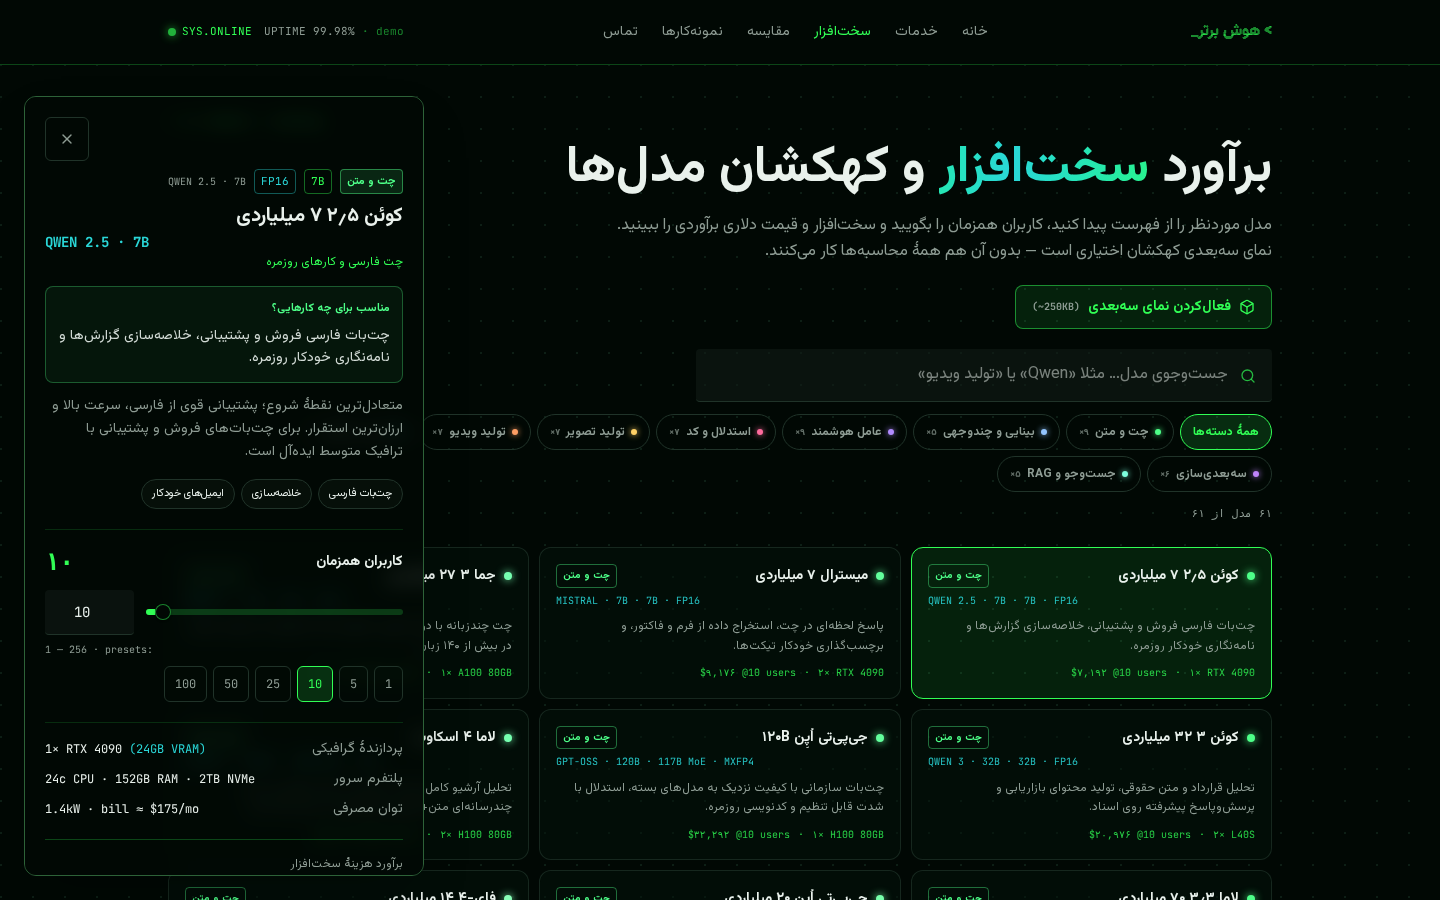
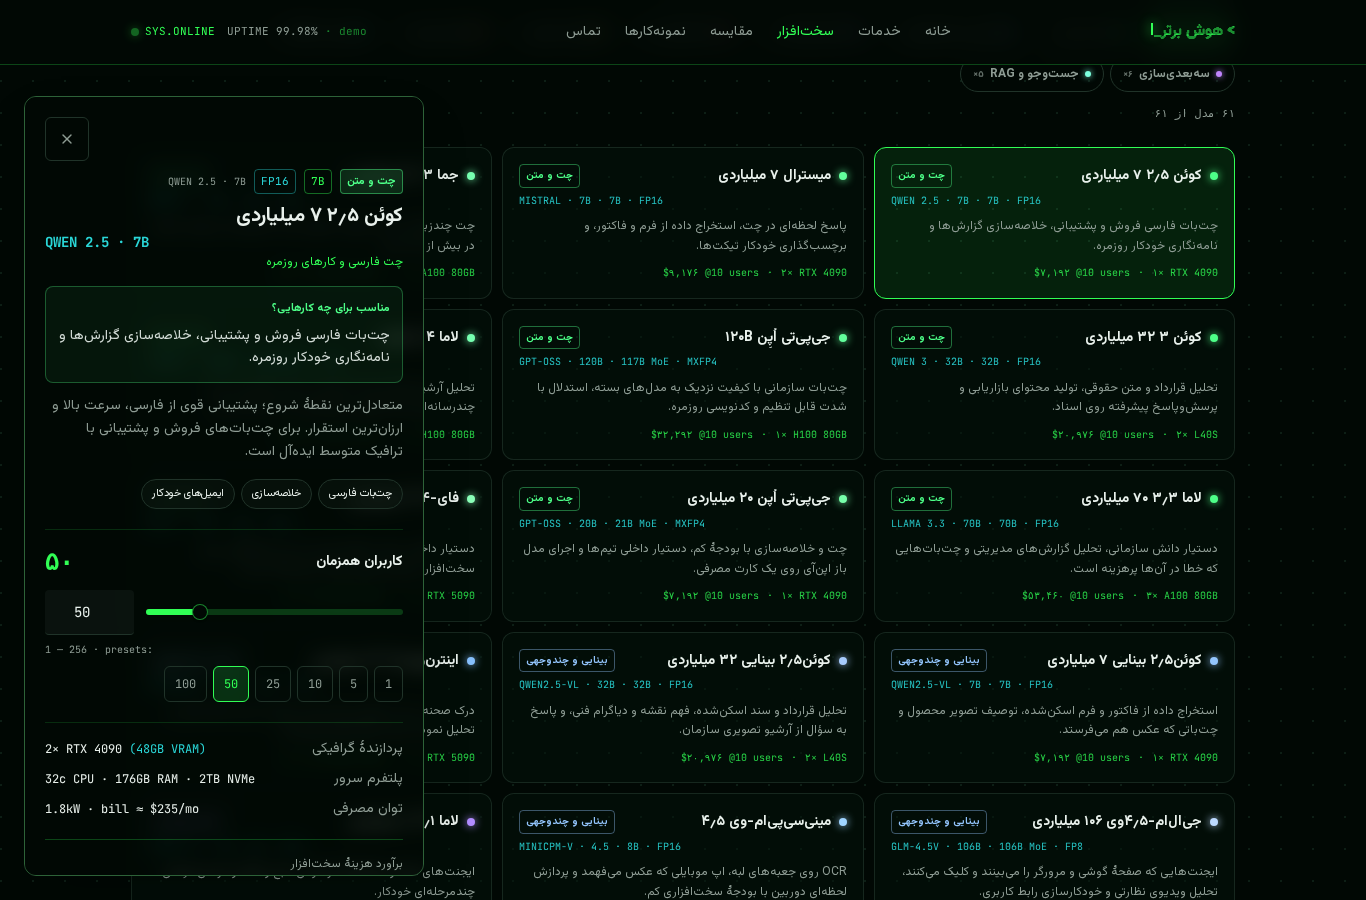
Round-2 report: docs/performance-seo-results.md — measured before/after (LH 36+36 runs, gzip-faithful host emulation), honest target status, limits

diff --git a/docs/performance-seo-results.md b/docs/performance-seo-results.md
@@ -1,0 +1,113 @@
+# نتایج بهینهسازی عملکرد و سئو — راند ۲ (T0–T9)
+
+تاریخ اجرا: ۲۰۲۶/۱۰/۲۵ · شاخه: `optimization/perf-seo-round2` · مبنا: `7af22e9` (main) → HEAD: `30a8548`
+
+> صادقانه: همهٔ اعداد این سند **آزمایشگاهی** و از خروجی واقعی همین مخزن هستند.
+> **هیچ دادهٔ میدانی (RUM/CrUX) وجود ندارد** — LCP/INP/CLS صدک ۷۵ کاربران واقعی قابل ادعا نیست.
+> سند قبلی `ui-performance-audit.md` برای تاریخچه حفظ شده؛ اعداد آن بازاندازهگیری شدهاند.
+
+## ۱) روششناسی اندازهگیری (ثابت برای قبل و بعد)
+
+| پارامتر | مقدار |
+|---|---|
+| سروکنندهٔ آزمایش | `scripts/static-server.mjs` — شبیهساز GitHub Pages: clean URL، 301 برای اسلش پایانی، **404 واقعی**، **gzip** (میزبان واقعی فشردهسازی میکند؛ اندازهگیری بدون gzip ارقام LCP را تا ×۲ influate میکرد) |
+| مرورگر | Chrome for Testing 143 (Playwright 1.57) — headless، `--no-sandbox` |
+| Lighthouse | 12.8.2 — موبایل: CPU×4 + Slow 4G · دسکتاپ: CPU×1 · هر نقطه **۳ اجرا، میانه** (JSON کامل: خروجی ابزار، نه دستساز) |
+| محیط | VM ابری اشتراکی؛ wall-clock دسکتاپ نوسان دارد (پایینتر مستند شده) |
+| Bun | 1.3.14 (در CI هم pin شد) |
+| شرایط cache | سرد در همهٔ اجراها (پروفایل تازه) |
+
+**محدودیت sandbox:** FCP/LCP مطلق دسکتاپ در این VM بالاتر از سختافزار واقعی است — مدرک: در trace خانهٔ دسکتاپ، منابع تا ~۲۰۰ms کامل رسیدهاند، کار main-thread فقط ~۵۶۰ms و TBT≈0، ولی FCP≈۲٫۸s ثبت شده (انتظار CPU کمسهمِ VM). مقایسهٔ قبل/بعد (روش یکسان) معتبر است؛ **اعداد مطلق را به سختافزار واقعی تعمیم ندهید.**
+
+## ۲) وضعیت دستورها (بعد — HEAD شاخه)
+
+| دستور | نتیجه |
+|---|---|
+| `bun run lint` | exit 0 — 0 error، 8 warning (همان react-refresh قبلی) |
+| `bun run typecheck` | exit 0 |
+| `bun run test` | **13 فایل، 53 تست پاس** (مبنا 41 → +12: sheet/resize، intro opt-in، fail-open reveal، سازگاری sitemap) |
+| `bun run build` (SSR/Lovable) | موفق — مسیر نامعتبر: **HTTP 404** (با nitro preset=node در محیط اجرا راستیآزمایی شد؛ پیکربندی پروژه تغییری نکرده) |
+| `PAGES_BASE_PATH=/open-model-workshop/ bun run build` | موفق — ۶ صفحه + `/404` (13 prerender) |
+| `node scripts/check-output.mjs .output/public` | پاس — ۶ مسیر، 404 noindex بدون canonical، sitemap/robots/og، canonical واحد، بودجهٔ gzip |
+
+## ۳) Lighthouse — قبل → بعد (میانهٔ ۳ اجرا)
+
+### موبایل (CPU×4 + Slow 4G، gzip)
+
+| مسیر | Perf قبل | Perf بعد | LCP قبل | LCP بعد | CLS قبل | CLS بعد | TBT قبل | TBT بعد |
+|---|---|---|---|---|---|---|---|---|
+| خانه | 0.74 | **0.84** | 3.40s | 3.61s | 0.2077 | **0.0000** | 0ms | 16ms |
+| خدمات | 0.87 | 0.87 | 3.14s | 3.33s | 0.0117 | **0.0000** | 0ms | 37ms |
+| سختافزار | 0.78 | **0.86** | 3.34s | 3.43s | 0.1636 | **0.0000** | 11ms | 71ms |
+| مقایسه | 0.88 | 0.89 | 3.07s | 3.21s | 0.0134 | **0.0000** | 5ms | 58ms |
+| نمونهکارها | 0.75 | **0.86** | 3.33s | 3.51s | 0.2086 | **0.0000** | 0ms | 37ms |
+| تماس | 0.85 | 0.85 | 3.32s | 3.31s | 0.0089 | **0.0000** | 18ms | 63ms |
+
+### دسکتاپ (CPU×1، gzip)
+
+| مسیر | Perf قبل | Perf بعد | LCP قبل | LCP بعد | CLS قبل | CLS بعد |
+|---|---|---|---|---|---|---|
+| خانه | 0.53 | **0.66** | 3.33s | 3.34s | 0.2289 | **0.0000** |
+| خدمات | 0.66 | 0.67 | 3.06s | 3.19s | 0.0289 | **0.0000** |
+| سختافزار | 0.59 | **0.66** | 3.31s | 3.35s | 0.1425 | **0.0000** |
+| مقایسه | 0.66 | 0.68 | 3.06s | 3.18s | 0.0079 | **0.0000** |
+| نمونهکارها | 0.64 | 0.65 | 3.31s | 3.37s | 0.0148 | **0.0000** |
+| تماس | 0.64 | 0.64 | 3.32s | 3.51s | 0.0089 | **0.0000** |
+
+SEO = 1.0 و Accessibility = 0.98–1 و Best-Practices = 0.96–1 در همهٔ نقاط قبل و بعد (ثابت).
+
+**خواندن اعداد:** بهبود اصلی CLS است (۰٫۰۸–۰٫۲۳ → ~۰) — عامل غالب با audit `layout-shifts` علتیابی شد: «Web font loaded» (بازچینش FOUT) و در سختافزار، درج صحنه پس از idle. LCP مطلق (~۳٫۲–۳٫۶ ثانیه) به هدف ≤۲٫۵s نرسیده — محدودیتها در بخش ۷.
+
+## ۴) جدول تغییرات (قالب درخواستی)
+
+| تغییر | فایل | شاهد قبل | نتیجهٔ بعد | آزمون و خروجی واقعی | وضعیت/مانع |
+|---|---|---|---|---|---|
+| **T1** Sheet موبایل روی دسکتاپ | `routes/hardware.tsx`, `lib/device.ts` | `Sheet open` بدون شرط viewport؛ فقط `md:hidden` CSS؛ overlay+scroll-lock نامرئی روی دسکتاپ؛ پنل دسکتاپ فقط داخل show3d | Sheet فقط وقتی viewport واقعاً موبایل (`useCompactViewport` واکنشگر) نصب میشود؛ پنل ثابت دسکتاپ در نمای فهرست هم هست؛ در resize ۳۹۰↔۱۳۶۶ انتخاب و کاربران حفظ و قفلها آزاد میشوند | ۳ تست jsdom (شامل resize زنده) + **۱۵/۱۵ بررسی Playwright** (بدون dialog/بدون قفل/محاسبه کار میکند/Escape و بازگشت فوکوس) | انجام شد |
+| **T2** اینترو از مسیر عادی خارج شد | `Shell.tsx`, `Intro.tsx`, `__root.tsx`, `styles.css` | `<Intro/>` بدون شرط در Shell؛ ~۲۲۴۰ عنصر تزئینی در SSR/hydration؛ تایمرهای ۳۰۵۰/۳۹۰۰ms؛ اسکریپت sessionStorage | اینترو **lazy و فقط با دکمهٔ footer** («پخش اینتروی برند»)؛ از HTML اولیهٔ همهٔ صفحات حذف؛ اسکریپت/CSS/sessionStorage مرده پاک شد؛ برند اینترو از h1 به عنصر تزئینی | HTML خام خانه **۲۹۳→۶۵KB**؛ تست jsdom (نمیدَر اولیه + نصب با کلیک + unmount با رد کردن)؛ reduced-motion = فریم ثابت | انجام شد — تغییر عمدی سیاست: لحظهٔ برند دیگر خودکار پخش نمیشود |
+| **T3** چیدمان پایدار سختافزار | `routes/hardware.tsx` | `desktopIdle` یک section تمامصفحه بعد از idle بالای فهرست درج میکرد؛ H1 بین دو حالت جابهجا میشد | فهرست+محاسبه پیشفرض ثابت هر دو دستگاه؛ سهبعدی فقط با دکمه (`mode==="3d"`)؛ H1/متن معرفی همیشه رندر؛ عنوان صحنه تزئینی؛ دکمهٔ «فهرست» داخل صحنه؛ سوییچ به بالای صفحه (کنترلشده) | CLS سختافزار دسکتاپ **0.1425→0.0000**؛ در بار سرد هیچ درج خودکاری رخ نمیدهد (trace + مرورگر) | انجام شد — تغییر عمدی سیاست نسبت به auto-desktop سابق (بند ۱ سند دستور) |
+| **T4** سیاست مشترک دستگاه + چرخهٔ رندر | `lib/device.ts`, `Datacenter.tsx`, `DatacenterScene.tsx`, `MatrixBackdrop.tsx` | `const COMPACT = isCompactDevice()` سطح ماژول (یکبار، بیواکنش)؛ DatacenterScene بدون کنترل تب؛ MatrixBackdrop در حالت ثابت با resize خالی میماند؛ rAF در تب پنهان میچرخید | `useDevicePolicy()` واکنشگر {compact, reducedMotion, saveData, lite, **ready**} — resize/reduced-motion/saveData/?tier زنده اعمال میشوند؛ صحنه فقط با `ready && !lite && idleReady` دانلود میشود؛ MatrixBackdrop: فریم ثابت + **بازرسم در resize**، توقف rAF در تب پنهان، ادامهٔ بدون-پرش؛ DatacenterScene: `frameloop="never"` در تب پنهان | مرورگر با Save-Data دسکتاپ: **۰ chunk سهبعدی در پنجرهٔ ۱۰ ثانیه** (پس از رفع race؛ قبلاً ۲ chunk میرفت) + backdrop 2D فعال؛ صفر chunk سهبعدی در موبایل (قبل و بعد)؛ ۵۳ تست jsdom | ریسکهای باقی: توقف بر «پوشیدهشدن» بخشیِ صحنهٔ fixed (همیشه intersect است) فقط سطح تب انجام شد — محدودیت مستند |
+| **T5** Reveal fail-open | `Reveal.tsx`, `styles.css`, `__root.tsx` | `html.js .reveal{opacity:0}` — اسکریپت inline `js` را میگذاشت؛ اگر entry chunk میشکست محتوا مخفی میماند | حالت پنهان مالکیت خود کامپوننت است (`reveal-arm` در layout effect قبل از paint + observer)؛ شکست chunk/نبود IO/خطای observer → نمایان | ۳ تست (arm قبل از paint، نبود IO → `in`، پرتاب خطا → `in`) + مرورگر با **مسدودسازی همهٔ JS**: صفر بلوک نامرئی؛ بدون JS همهٔ ۶ مسیر خوانا | انجام شد |
+| **T6** SEO مرکزی | `lib/site.ts`, `lib/seo.ts`, ۶ مسیر, `__root.tsx` | canonical هاردکد در ۵ فایل؛ بدون og:url/og:image؛ JSON-LD جدا | `SITE_URL` تکمنبع (override با `VITE_SITE_URL`)؛ title/description یکتا، canonical مطلق واحد، og:url + og:image واقعی (`public/og-cover.png` ۱۲۰۰×۶۳۰ با فونت خود سایت)؛ JSON-LD از همان تنظیم | `check-output` در CI: canonical واحد هر صفحه؛ تست سازگاری sitemap↔site (۴ مورد)؛ هر دو build با base `/` و `/open-model-workshop/` | انجام شد — دامنهٔ GitHub Pages فعلی حفظ شد (دامنهٔ ساختگی ساخته نشد) |
+| **T7** 404 واقعی | `routes/404.tsx`, `NotFoundContent.tsx`, `vite.config.ts`, workflow | `cp index.html 404.html` — کپی خانه بهعنوان 404 | مسیر `/404` واقعاً prerender میشود (noindex، بدون canonical، فارسی)؛ workflow از خروجی واقعی کپی میکند و نبودش را fail میکند | میزبان شبیهساز: unknown → **HTTP 404** با بدنهٔ 404 فارسی؛ SSR (preset=node برای تست): unknown → **HTTP 404**؛ اسکرینشات `404-desktop.png` | محدودیت میزبانی: robots زیر `/open-model-workshop/` کل host را کنترل نمیکند — در فایل و این سند مستند شد؛ بدون مجوز DNS/ریپوی دیگری دست نزده شد |
+| **T8** DOM/دارایی | `routes/hardware.tsx`, `styles.css`, `__root.tsx` | جدول+کارت هر دو رندر با `sizeFor()` ×۳۶۶+ در هر رندر؛ `sizeFor(m,10)` دوبار در هر کارت؛ `--cv-size:7000px` حدسی | دادهٔ مرجع **یکبار** در سطح ماژول؛ جدول/کارت = عناصر استاتیک ماژول (reconciliation رد میشود)؛ haystack جستوجوی نرمالشده؛ `--cv-size` **اندازهگیریشدهٔ ریسپانسیو** (موبایل ۱۳٫۶k، md+ 5.3k)؛ preload سه فونت بحرانی | DOM دسکتاپ تقریباً ثابت (۳۴۴۴→۳۴۵۴ — markup حفظ شد، فقط شمارندهها/دکمهها اضافه شد)؛ تایپ/اسلایدر دیگر جدول را بازمحاسبه نمیکند؛ CLS فونتی 0.14–0.23 → **≤0.0013** | virtualization اعمال نشد (۶۱ ردیف دلیل کتابخانه نیست)؛ جدول semantics و SSR حفظ شد |
+| **T9** تست/CI | workflow, `scripts/check-output.mjs`, تستها | workflow فقط build داشت؛ bun unpinned | lint+typecheck+test قبل از build؛ bun=1.3.14؛ چک ساختاری خروجی + بودجهٔ gzip (مبنا ×۱٫۱۵) | `check-output` محلی پاس؛ ۵۳ تست؛ ماتریس مرورگر T9 (۳۰ بررسی) همه پاس: no-JS، JS-شکسته، reduced-motion، RTL بدون overflow سراسری در ۳۲۰/۳۹۰/۷۶۸/۱۴۴۰، Save-Data، opt-in سهبعدی، بازگشت از صحنه | تست دستگاه فیزیکی/INP میدانی ممکن نشد — مستند |
+
+## ۵) HTML خام و شبکه (evidence جمعشده، نه حدس)
+
+| مسیر | HTML خام قبل | بعد | Δ |
+|---|---|---|---|
+| خانه | ۲۹۳KB | **۶۵KB** | −۷۸٪ |
+| خدمات | ۲۸۵KB | **۵۶KB** | −۸۰٪ |
+| سختافزار | ۵۱۹KB | **۲۹۱KB** | −۴۴٪ |
+| مقایسه | ۲۵۸KB | **۳۰KB** | −۸۸٪ |
+| نمونهکارها | ۳۴۷KB | **۱۱۹KB** | −۶۶٪ |
+| تماس | ۲۵۴KB | **۲۶KB** | −۹۰٪ |
+
+- `#boot-overlay` در HTML خام همهٔ مسیرها: ۲ → **۰**.
+- درخواستهای سهبعدی موبایل (پنجرهٔ ۱۰ ثانیه پس از load، هر ۶ مسیر): قبل ۰ → بعد **۰** (سیاست حفظ شده).
+- Save-Data دسکتاپ (home، پنجرهٔ ۱۰ ثانیه): بعد **۰ chunk سهبعدی** (۲D backdrop).
+- opt-in سهبعدی سختافزار: کلیک → همان لحظه fetch ۲ chunk + mount canvas؛ «فهرست» → بازگشت بدون قفل.
+- هشدار hydration جدید: **صفر** (کنسول همهٔ ۶ مسیر، قبل و بعد).
+- LCP element: متن (H1 هیرو) — preload فونت دقیقاً برای همین مسیر.
+
+## ۶) اهداف عددی — وضعیت صادقانه
+
+| هدف (سند دستور) | وضعیت | توضیح |
+|---|---|---|
+| CLS ≤ 0.1 (آزمایشگاهی) | ✅ **≤ 0.0013 همهجا** | از 0.008–0.229 |
+| INP ≤ 200ms میدانی | ⛔ دادهٔ میدانی وجود ندارد | تعاملها آزمایشگاهی رواناند؛ ادعای میدانی نمیشود |
+| LCP ≤ 2.5s | ⚠ آزمایشگاهی ۳٫۲–۳٫۶s | مانع: sandbox (منابع ≤۲۰۰ms، main-thread ≤۶۰۰ms، TBT≈۰ — تأخیر wall-clock VM است)؛ روی سختافزار واقعی بازاندازهگیری شود. اهرم باقیمانده: سبکترشدن entry (~47KB gzip) |
+| LH Perf ≥90 موبایل / ≥95 دسکتاپ | ⚠ 0.84–0.89 / 0.64–0.68 | همان مانع sandbox؛ در مقایسهٔ قبل/بعد بهبود واقعی (تا +0.13) |
+| SEO ≥95 | ✅ 1.0 | |
+| مجموع JS+CSS نمای سبک ≤ baseline | ✅ ثابت (entry 45.8KB gzip + css 14.8KB — budget CI: ≤52.7/≤23) | فونتها/تصاویر جدا: preload سه فونت ۳۲+۳۲+۲۹KB (همان فایلهای قبلی، زودتر) |
+| صفر chunk سهبعدی قبل از opt-in | ✅ موبایل + Save-Data | پنجرهٔ ۱۰ ثانیه |
+| بدون overlay اجباری / modal نامرئی / hydration warning جدید | ✅ | ماتریس مرورگر |
+
+## ۷) محدودیتها و کارهای باقیمانده
+
+1. **دستگاه فیزیکی/لمس واقعی، iOS/Android، reduced-motion واقعی، Save-Data واقعی مرورگر** — در این محیط ممکن نشد؛ شبیهسازی Chrome معیار جایگزین بود.
+2. **INP میدانی** — بدون RUM قابل گزارش نیست؛ برای جمعآوری، یک ابزار RUM (مثلاً web-vitals به یک endpoint) نقطهٔ بعدی است.
+3. **LCP دسکتاپ و chunk سهبعدی home** — راهروی دیتاسنتر روی دسکتاپ پس از idle دانلود میشود (هویت بصری سایت؛ طبق سند حفظ شد) و با پنجرهٔ LCP رقابت میکند. اگر پذیرفته شود، deferring آن به اولین اسکرول/تعامل LCP دسکتاپ را پایین میآورد — تصمیم محصول، نه فنی.
+4. **توقف صحنهٔ fixed بر اساس «پوشیدهشدن»** — صحنهٔ fixed همیشه intersect است؛ فقط توقف سطح تب پیاده شد (سطح بخش نیازمند تصمیم دربارهٔ شفافیت لایههاست).
+5. **robots روی sub-path** — کنترل crawl کل host نمیدهد؛ در `public/robots.txt` مستند شد. پیشنهاد: ثبت sitemap در Search Console و در صورت تعیین دامنهٔ اختصاصی، فقط `VITE_SITE_URL` را ست کنید.
+6. **screenshotهای ماتریس** در `docs/screenshots/after2/` (۱۰ فریم: ۳۲۰/۳۹۰/۷۶۸/۱۴۴۰، منو، sheet، پنل دسکتاپ، 3D، 404، no-JS).
